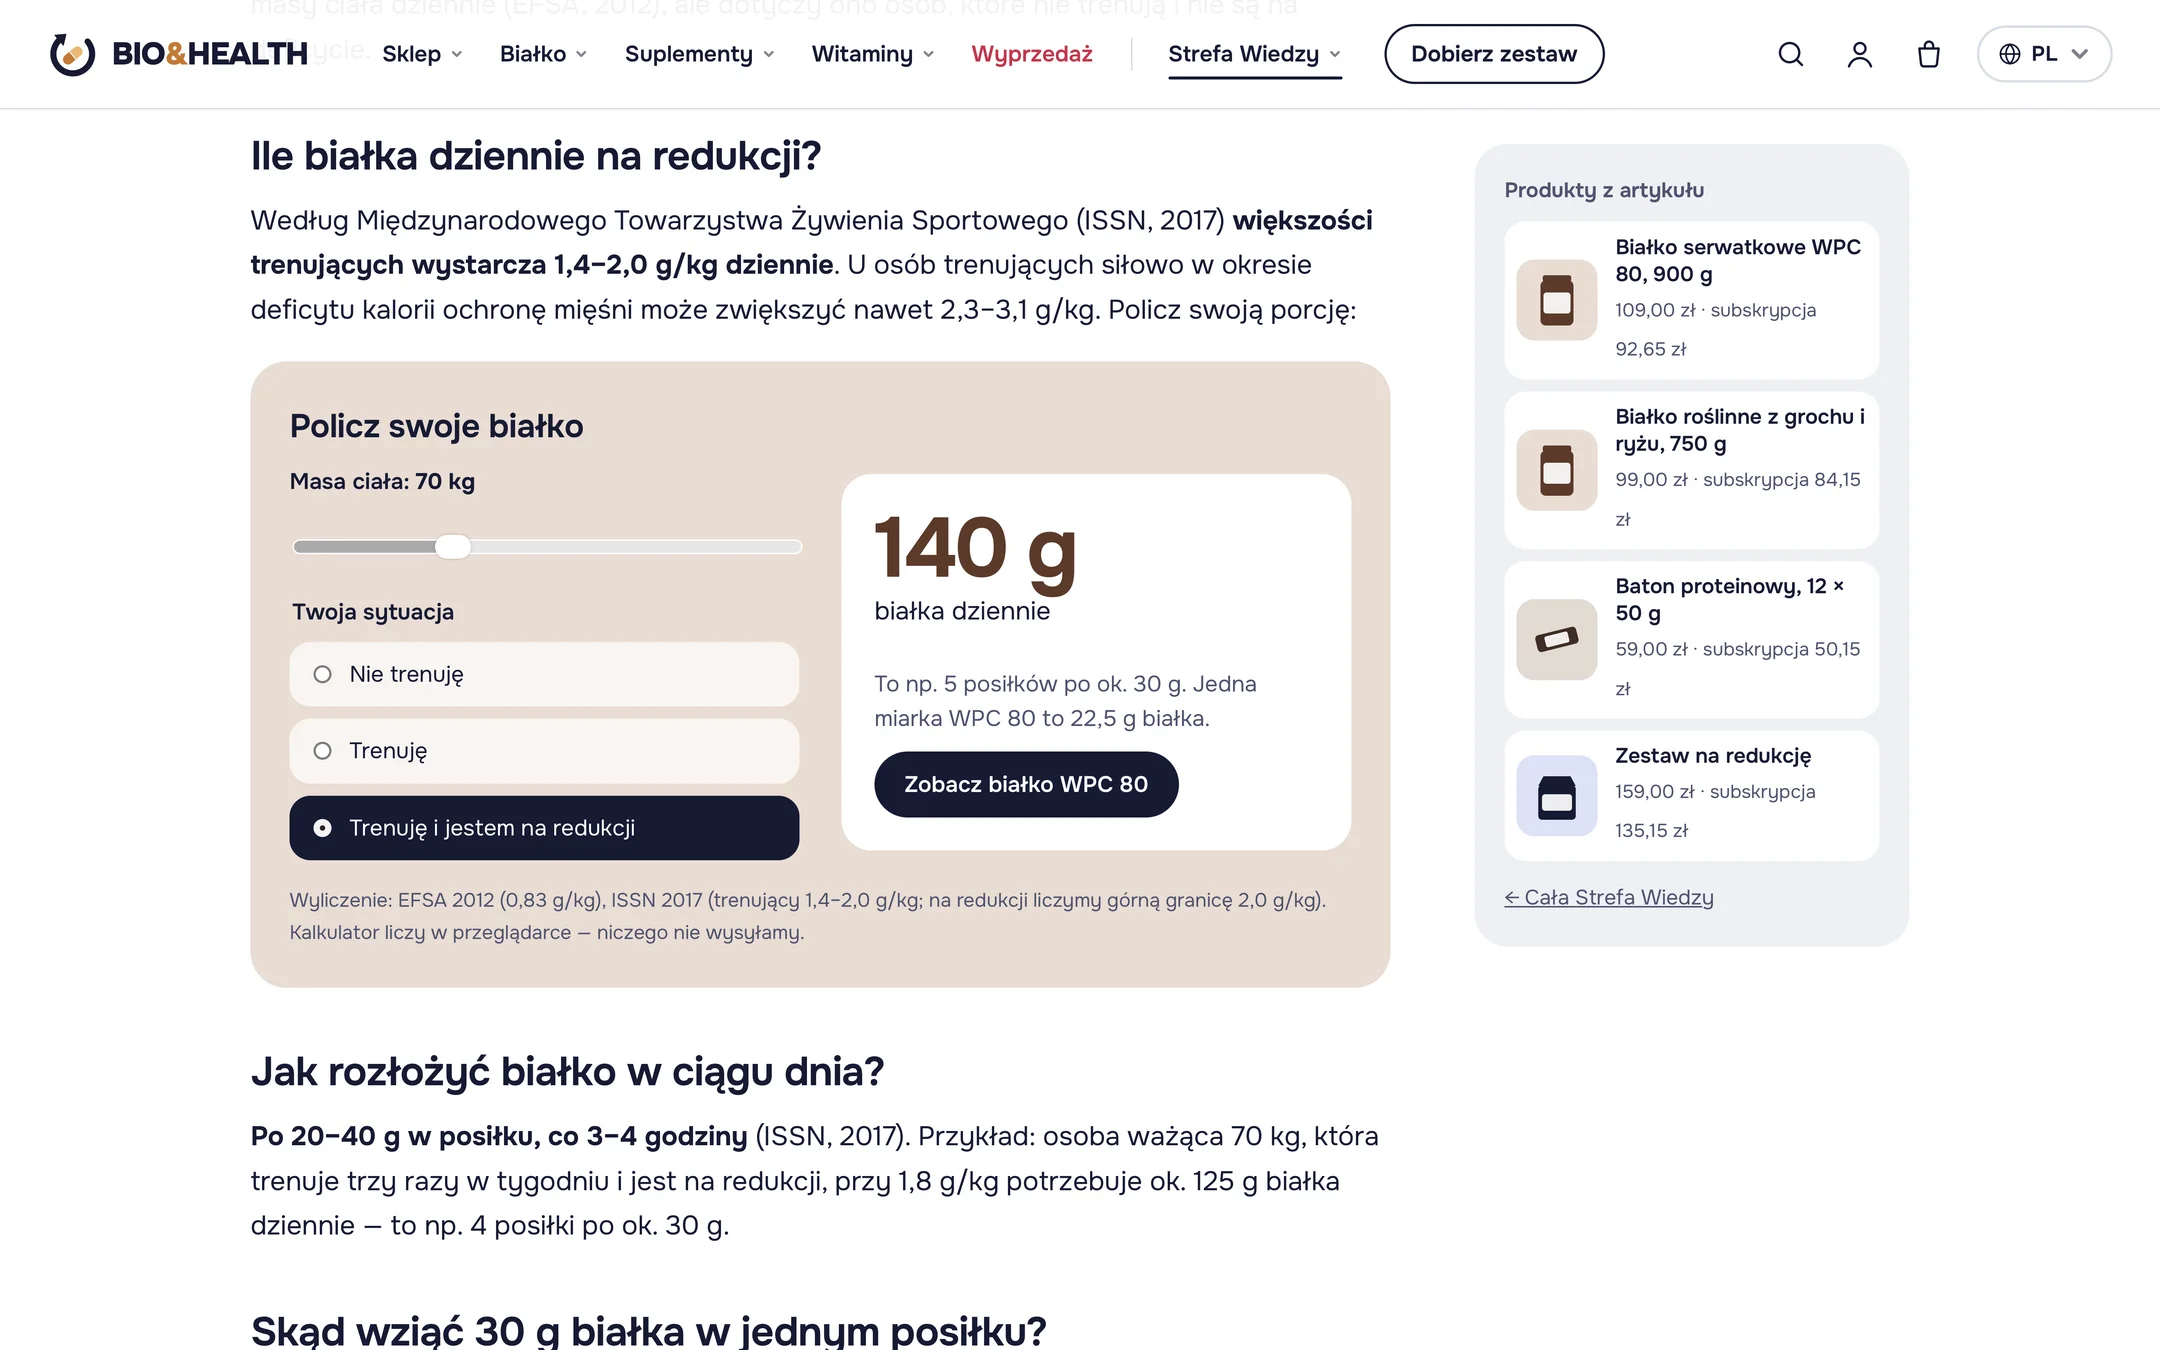
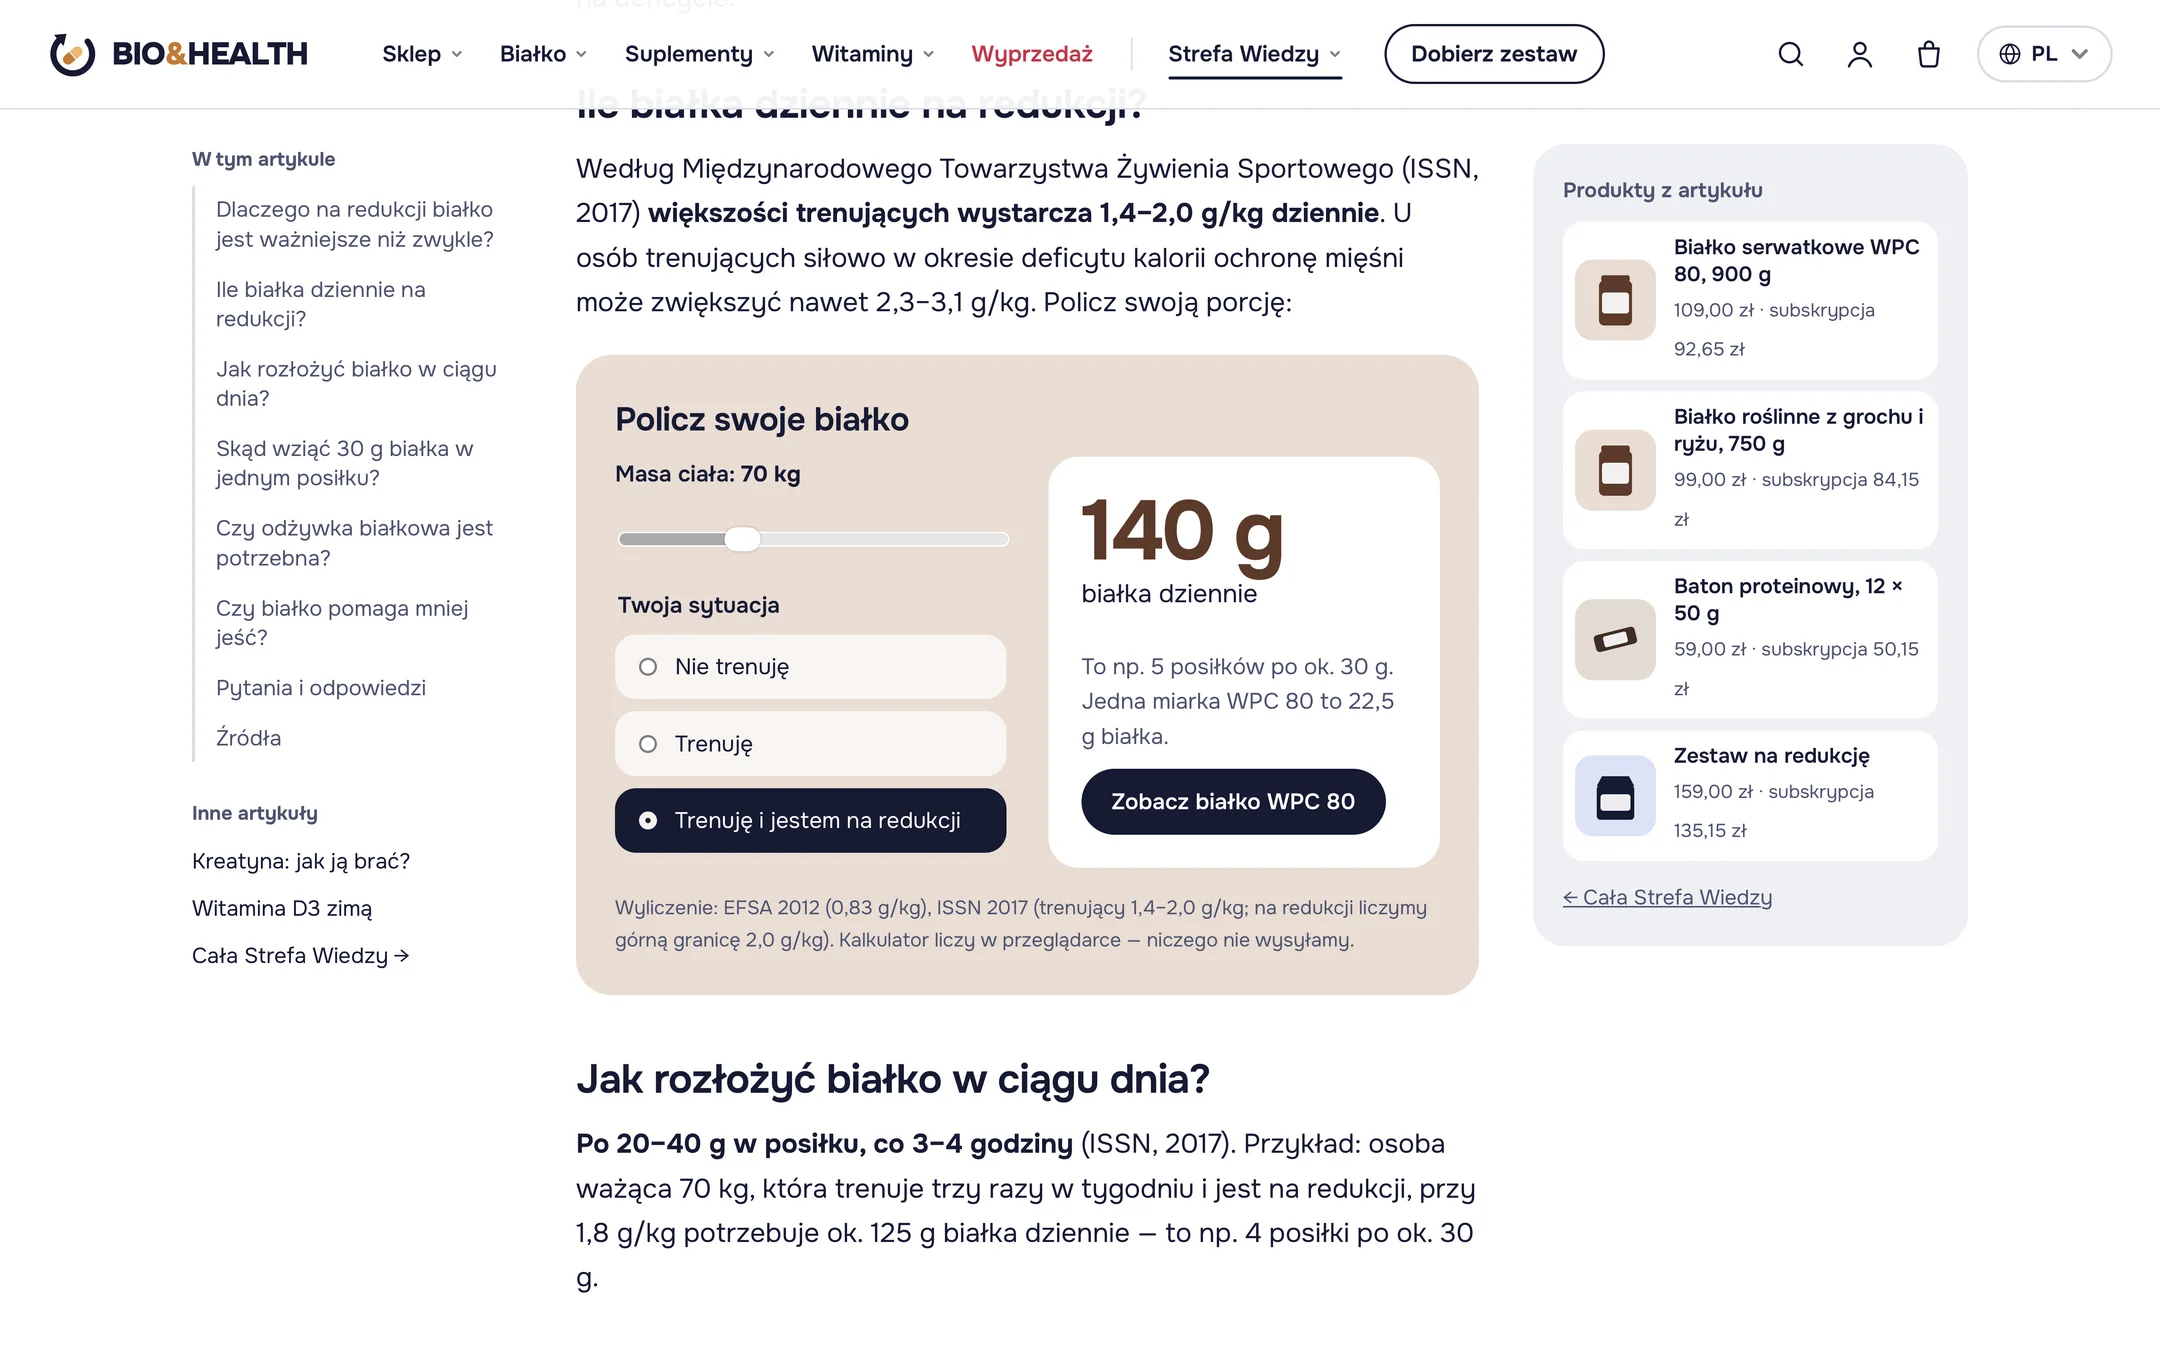
Prezentacja BC6: nowe zrzuty (pasek korzyści, filtry, spis treści)

Changed region(s): [[0.0931, 0.0622, 0.8995, 0.7467], [0.1241, 0.7778, 0.6824, 0.9333], [0.1241, 0.9644, 0.4963, 1.0]]

diff --git a/prezentacja-seo.html b/prezentacja-seo.html
@@ -183,9 +183,9 @@
               <div class="pasek-przegl"><i></i><i></i><i></i><span>bioandhealth.pl/bialko</span></div>
               <div class="z-obrysami">
                 <img src="/prezentacja-seo/menu.webp" alt="Nagłówek sklepu z rozwiniętym panelem Sklep" width="2160" height="930" />
-                <span class="obrys" data-krok="1" data-x="16.5" data-y="7.4" data-w="35.3" data-h="7.4"></span>
-                <span class="obrys obrys--czek" data-krok="2" data-x="52.9" data-y="7.4" data-w="21.7" data-h="7.7"></span>
-                <span class="obrys" data-krok="3" data-x="1.8" data-y="28.1" data-w="13.8" data-h="6.9"></span>
+                <span class="obrys" data-krok="1" data-x="16.5" data-y="13.2" data-w="35.3" data-h="7.4"></span>
+                <span class="obrys obrys--czek" data-krok="2" data-x="52.9" data-y="13.2" data-w="21.7" data-h="7.7"></span>
+                <span class="obrys" data-krok="3" data-x="1.8" data-y="33.9" data-w="13.8" data-h="6.9"></span>
               </div>
             </figure>
           </div>
@@ -217,17 +217,18 @@
               <div class="pasek-przegl"><i></i><i></i><i></i><span>bioandhealth.pl/bialko-na-redukcji</span></div>
               <div class="z-obrysami">
                 <img src="/prezentacja-seo/artykul_gora.webp" alt="Początek artykułu Białko na redukcji" width="2160" height="1350" />
-                <span class="obrys" data-krok="1" data-x="8.2" data-y="18.4" data-w="60" data-h="22"></span>
-                <span class="obrys" data-krok="2" data-x="11" data-y="51.4" data-w="54" data-h="30"></span>
-                <span class="obrys" data-krok="3" data-x="12.8" data-y="78.4" data-w="50.4" data-h="13.6"></span>
-                <span class="obrys obrys--czek" data-krok="4" data-x="67.6" data-y="51.4" data-w="21.4" data-h="48"></span>
+                <span class="obrys" data-krok="1" data-x="8.2" data-y="22.4" data-w="59.7" data-h="22.2"></span>
+                <span class="obrys" data-krok="2" data-x="26.3" data-y="55.6" data-w="42.6" data-h="28.5"></span>
+                <span class="obrys" data-krok="3" data-x="28.1" data-y="85.7" data-w="39" data-h="13.8"></span>
+                <span class="obrys obrys--czek" data-krok="4" data-x="8.3" data-y="55.6" data-w="16.4" data-h="43.8"></span>
+                <span class="obrys obrys--czek" data-krok="4" data-x="70.6" data-y="55.6" data-w="21" data-h="43.8"></span>
               </div>
             </figure>
             <ol class="geo-lista">
               <li data-krok="1"><b>Nagłówek-pytanie</b> — tak, jak pytamy AI</li>
               <li data-krok="2"><b>„W skrócie”</b> — zwięzła odpowiedź na górze</li>
               <li data-krok="3"><b>Liczby ze źródłem</b> zamiast ogólników (ISSN, EFSA)</li>
-              <li data-krok="4"><b>Produkty z artykułu</b> — zawsze pod ręką</li>
+              <li data-krok="4"><b>Spis treści i produkty</b> — po lewej i po prawej, zawsze pod ręką</li>
               <li data-krok="5"><b>Pytania i odpowiedzi</b> + dane strukturalne w kodzie</li>
             </ol>
           </div>
@@ -256,7 +257,7 @@
             <li data-krok="1"><span class="tag">techniczne</span><b>Ścieżka</b> Strona główna / Białko / WPC 80</li>
             <li data-krok="1"><span class="tag">contentowe</span><b>Linkowanie wewnętrzne</b> ze słów w tekście</li>
             <li data-krok="2"><span class="tag">GEO</span><b>Dane strukturalne</b> — pytania i ścieżka w kodzie</li>
-            <li data-krok="2"><span class="tag">techniczne</span><b>Tekst w HTML</b>, szybkie strony i wersja na telefon</li>
+            <li data-krok="2"><span class="tag">techniczne</span><b>Filtry bez nowych adresów</b> — brak duplikatów treści</li>
           </ul>
           <p class="wniosek" data-krok="3">Demo ma celowo „noindex” — to nie prawdziwy sklep. W prawdziwym: usuwamy noindex, dodajemy mapę strony i robots.txt.</p>
         </section>
